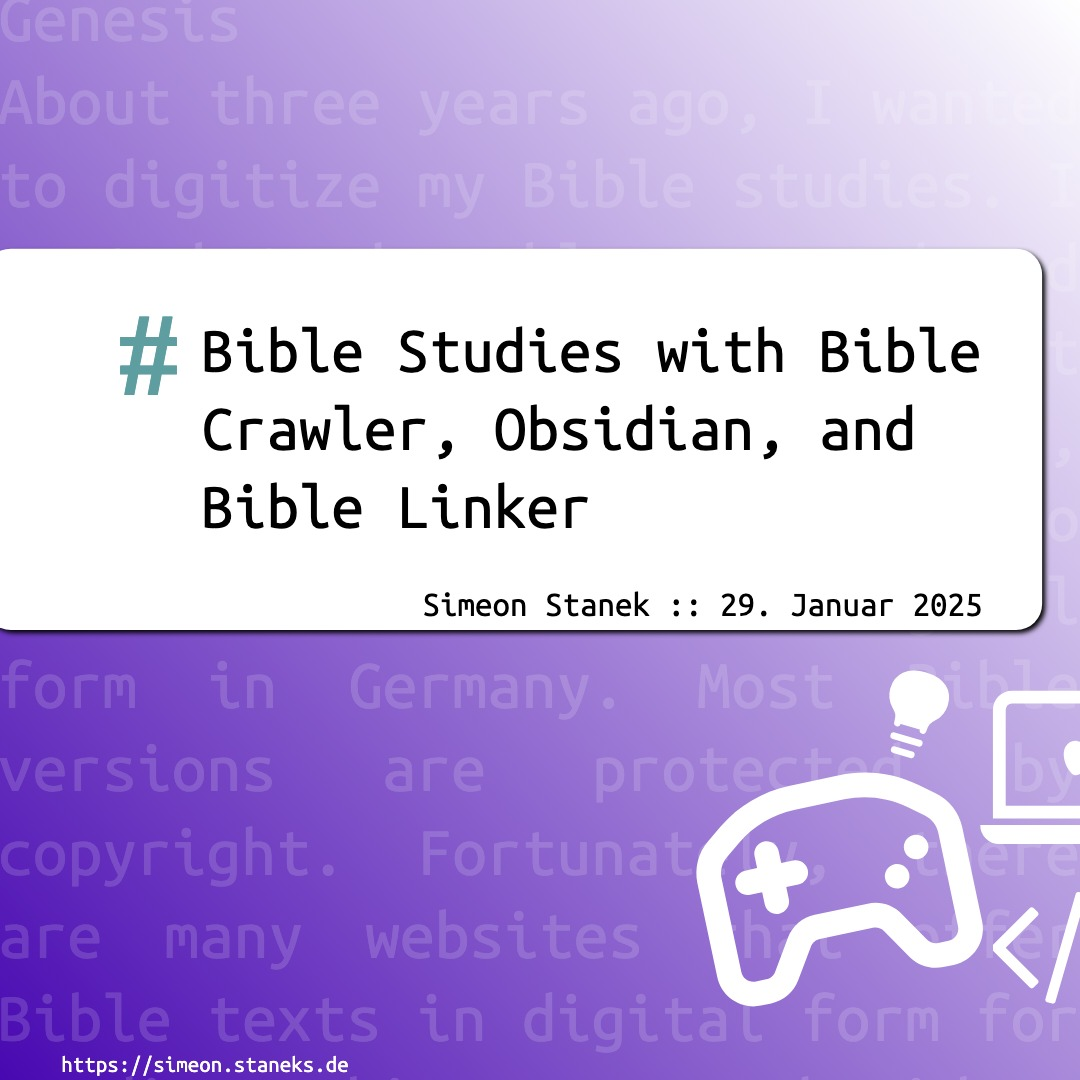
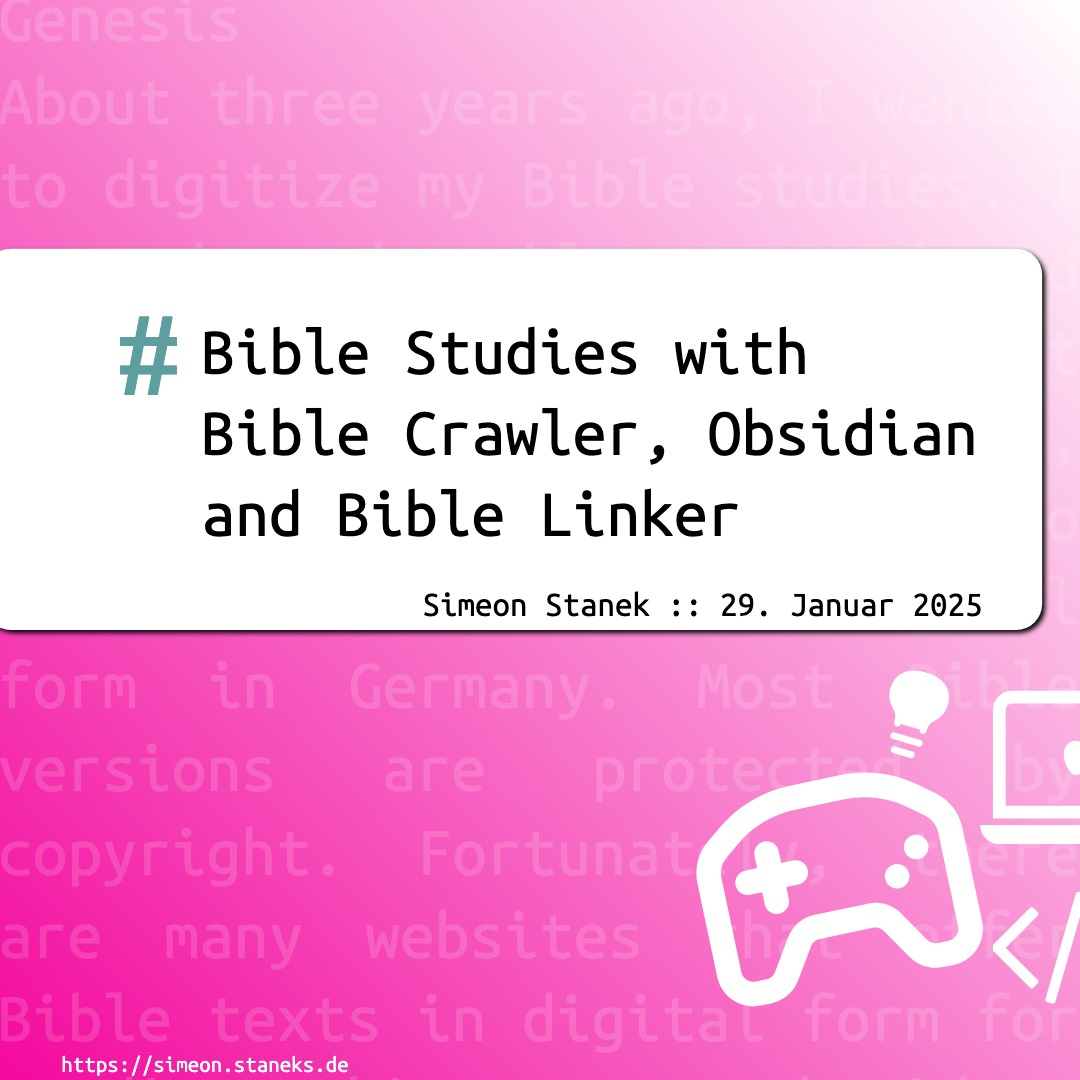
update content on Wed Jan 29 23:36:14 CET 2025

diff --git a/content/posts/bible-crawler-obsidian-and-bible-linker/index.en.md b/content/posts/bible-crawler-obsidian-and-bible-linker/index.en.md
@@ -1,5 +1,5 @@
 +++
-title = "Bible Studies with Bible Crawler, Obsidian, and Bible Linker"
+title = "Bible Studies with Bible Crawler, Obsidian and Bible Linker"
 date = 2025-01-29
 description = "A program I wrote that downloads different Bible versions which can then be used in Obsidian. You can also use and work with the Bible versions as markdown files and convert them to other documents."
 [taxonomies]
